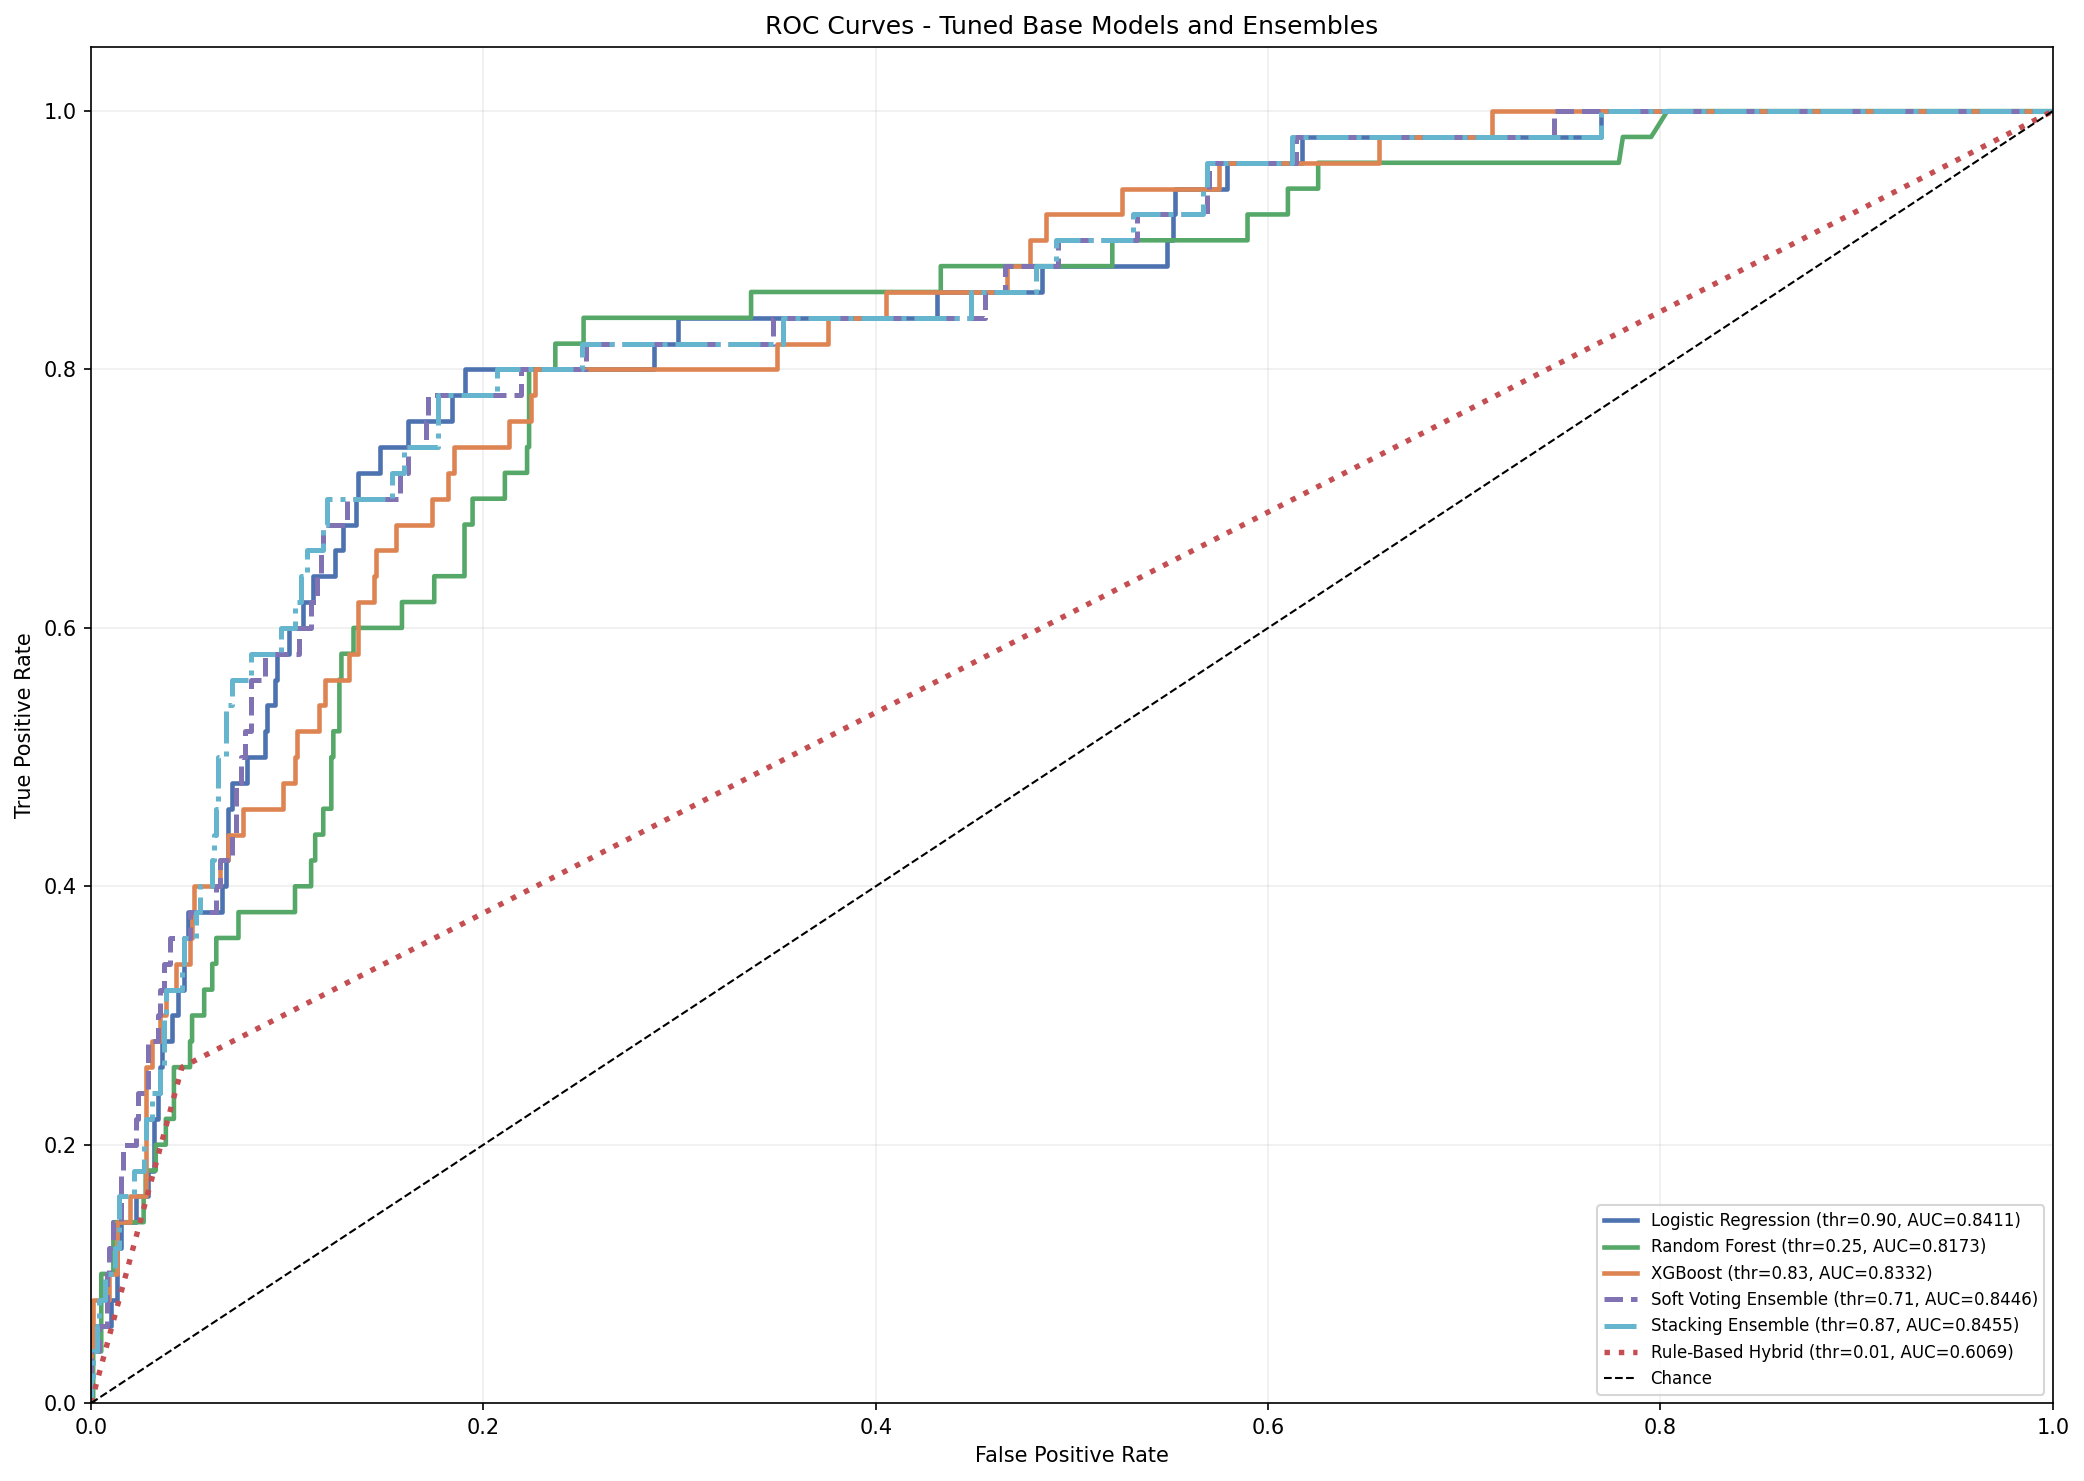
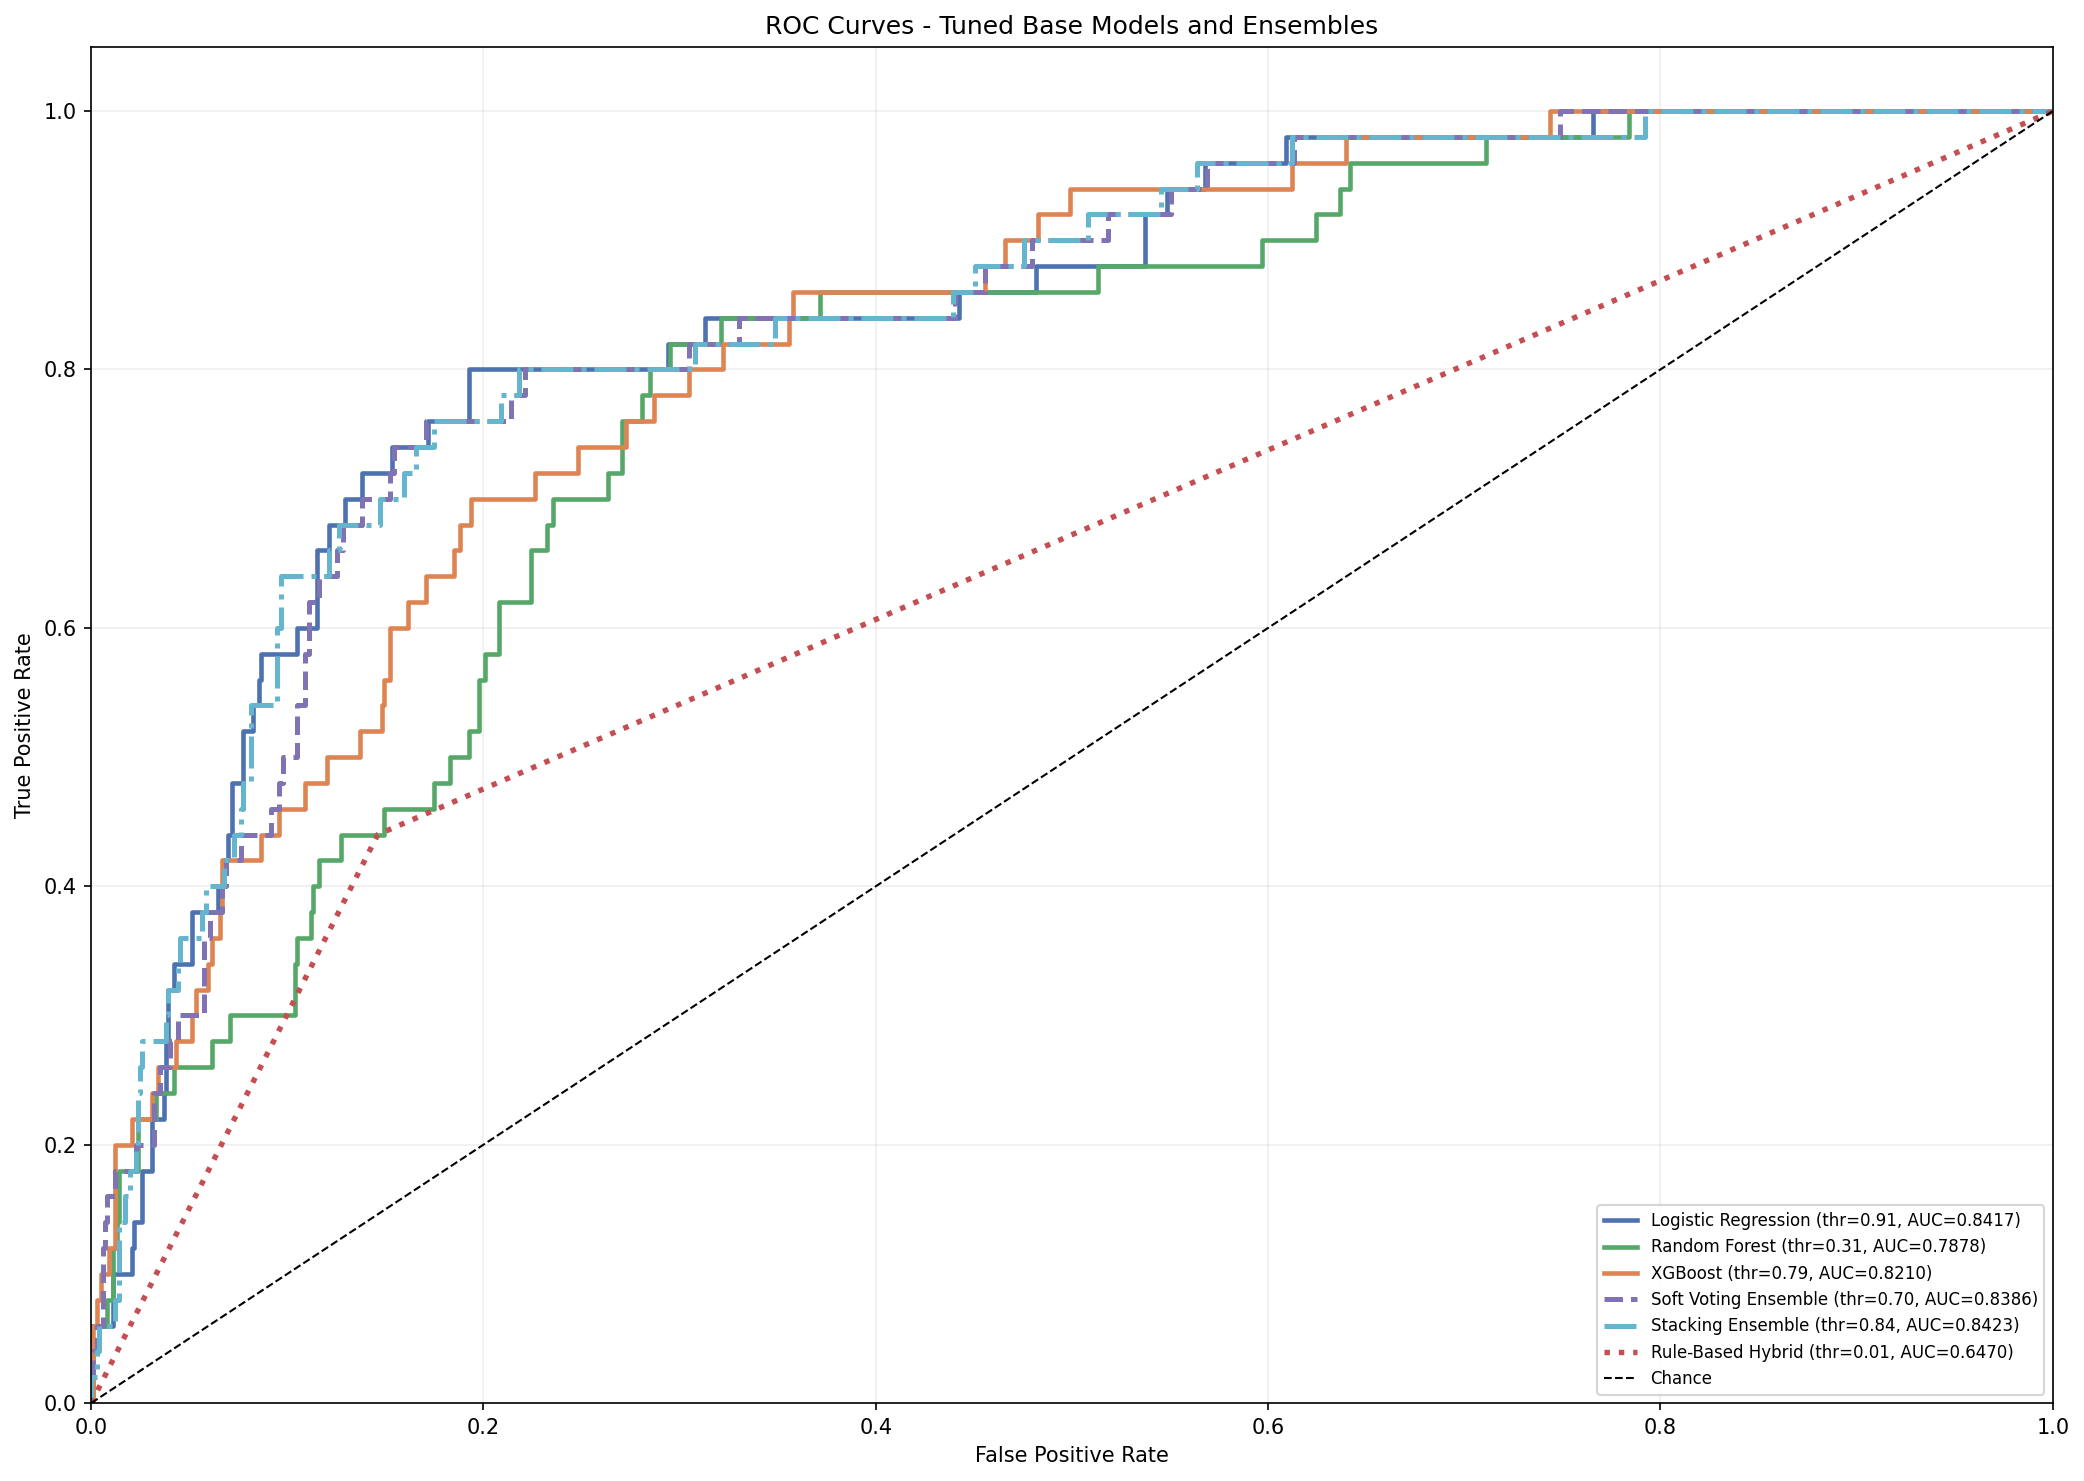
did smote and tuned the model

diff --git a/model_comparison_tuned.py b/model_comparison_tuned.py
@@ -7,6 +7,7 @@ import matplotlib.pyplot as plt
 import numpy as np
 import pandas as pd
 
+from sklearn.base import BaseEstimator, ClassifierMixin, clone
 from sklearn.ensemble import RandomForestClassifier
 from sklearn.linear_model import LogisticRegression
 from sklearn.metrics import (
@@ -19,6 +20,7 @@ from sklearn.metrics import (
     roc_auc_score,
     roc_curve,
 )
+from sklearn.neighbors import NearestNeighbors
 from sklearn.model_selection import StratifiedKFold, train_test_split
 from sklearn.pipeline import Pipeline
 
@@ -42,6 +44,8 @@ from model_comparison import (
 THRESHOLD_GRID = np.round(np.arange(0.0, 1.01, 0.01), 2)
 MIN_PRECISION_FOR_RECALL_OPTIMIZATION = 0.20
 THRESHOLD_SELECTION_STRATEGY = "recall_at_precision_floor"
+SMOTE_SAMPLING_STRATEGY = 0.30
+SMOTE_K_NEIGHBORS = 5
 
 OUTPUT_PLOT_PATH = Path(__file__).with_name("model_comparison_tuned_results.png")
 THRESHOLD_TUNING_PLOT_PATH = Path(__file__).with_name("threshold_tuning_results.png")
@@ -56,18 +60,140 @@ MODEL_ORDER = [
 ]
 
 
+class SimpleSMOTE:
+    """A lightweight SMOTE implementation for dense tabular matrices."""
+
+    def __init__(
+        self,
+        sampling_strategy: float = SMOTE_SAMPLING_STRATEGY,
+        random_state: int = RANDOM_STATE,
+        k_neighbors: int = SMOTE_K_NEIGHBORS,
+    ) -> None:
+        self.sampling_strategy = sampling_strategy
+        self.random_state = random_state
+        self.k_neighbors = k_neighbors
+
+    def fit_resample(self, X: np.ndarray, y: pd.Series | np.ndarray) -> tuple[np.ndarray, np.ndarray]:
+        X_array = np.asarray(X, dtype=float)
+        y_array = np.asarray(y, dtype=int)
+
+        classes, counts = np.unique(y_array, return_counts=True)
+        if len(classes) != 2:
+            return X_array, y_array
+
+        minority_class = classes[np.argmin(counts)]
+        majority_class = classes[np.argmax(counts)]
+        minority_mask = y_array == minority_class
+        majority_mask = y_array == majority_class
+
+        X_minority = X_array[minority_mask]
+        X_majority = X_array[majority_mask]
+        y_minority = y_array[minority_mask]
+        y_majority = y_array[majority_mask]
+
+        target_minority_count = int(np.ceil(self.sampling_strategy * len(X_majority)))
+        if target_minority_count <= len(X_minority) or len(X_minority) < 2:
+            return X_array, y_array
+
+        n_samples_to_generate = target_minority_count - len(X_minority)
+        effective_k = min(self.k_neighbors, len(X_minority) - 1)
+        if effective_k < 1:
+            return X_array, y_array
+
+        nn = NearestNeighbors(n_neighbors=effective_k + 1)
+        nn.fit(X_minority)
+        neighbor_indices = nn.kneighbors(X_minority, return_distance=False)[:, 1:]
+
+        rng = np.random.default_rng(self.random_state)
+        synthetic_samples = []
+
+        for _ in range(n_samples_to_generate):
+            sample_index = rng.integers(0, len(X_minority))
+            sample = X_minority[sample_index]
+            neighbor_index = rng.choice(neighbor_indices[sample_index])
+            neighbor = X_minority[neighbor_index]
+            gap = rng.random()
+            synthetic_samples.append(sample + gap * (neighbor - sample))
+
+        X_synthetic = np.asarray(synthetic_samples, dtype=float)
+        y_synthetic = np.full(len(X_synthetic), minority_class, dtype=int)
+
+        X_resampled = np.vstack([X_majority, X_minority, X_synthetic])
+        y_resampled = np.concatenate([y_majority, y_minority, y_synthetic])
+
+        return X_resampled, y_resampled
+
+
+class SmoteTabularClassifier(BaseEstimator, ClassifierMixin):
+    """Wrap feature engineering, preprocessing, SMOTE, and a classifier in one estimator."""
+
+    def __init__(
+        self,
+        numerical_features: list[str],
+        categorical_features: list[str],
+        classifier: object,
+        use_scaler: bool,
+        sampling_strategy: float = SMOTE_SAMPLING_STRATEGY,
+        random_state: int = RANDOM_STATE,
+        k_neighbors: int = SMOTE_K_NEIGHBORS,
+    ) -> None:
+        self.numerical_features = numerical_features
+        self.categorical_features = categorical_features
+        self.classifier = classifier
+        self.use_scaler = use_scaler
+        self.sampling_strategy = sampling_strategy
+        self.random_state = random_state
+        self.k_neighbors = k_neighbors
+
+    def _engineered_numerical_features(self) -> list[str]:
+        engineered_numerical_features = self.numerical_features.copy()
+        if {"age", "has_hypertension"}.issubset(self.numerical_features):
+            engineered_numerical_features.append("age_x_has_hypertension")
+        if {"bmi_value", "glucose_level"}.issubset(self.numerical_features):
+            engineered_numerical_features.append("bmi_x_glucose_level")
+        return engineered_numerical_features
+
+    def fit(self, X: pd.DataFrame, y: pd.Series) -> "SmoteTabularClassifier":
+        self.feature_engineering_ = InteractionFeatureAdder()
+        engineered_numerical_features = self._engineered_numerical_features()
+        self.preprocessor_ = build_preprocessor(
+            engineered_numerical_features,
+            self.categorical_features,
+            use_scaler=self.use_scaler,
+        )
+        self.smote_ = SimpleSMOTE(
+            sampling_strategy=self.sampling_strategy,
+            random_state=self.random_state,
+            k_neighbors=self.k_neighbors,
+        )
+
+        X_engineered = self.feature_engineering_.fit_transform(X, y)
+        X_processed = self.preprocessor_.fit_transform(X_engineered, y)
+        X_resampled, y_resampled = self.smote_.fit_resample(X_processed, y)
+
+        self.classifier_ = clone(self.classifier)
+        self.classifier_.fit(X_resampled, y_resampled)
+        self.classes_ = np.array(sorted(np.unique(y_resampled)))
+        return self
+
+    def predict_proba(self, X: pd.DataFrame) -> np.ndarray:
+        X_engineered = self.feature_engineering_.transform(X)
+        X_processed = self.preprocessor_.transform(X_engineered)
+        return self.classifier_.predict_proba(X_processed)
+
+    def predict(self, X: pd.DataFrame) -> np.ndarray:
+        """Provide a hard-label prediction for sklearn utilities like cross_val_predict."""
+
+        proba = self.predict_proba(X)[:, 1]
+        return (proba >= 0.5).astype(int)
+
+
 def build_weighted_models(
     numerical_features: list[str],
     categorical_features: list[str],
     y_train: pd.Series,
-) -> dict[str, Pipeline]:
-    """Build class-weighted base models using the current training split."""
-
-    engineered_numerical_features = numerical_features.copy()
-    if {"age", "has_hypertension"}.issubset(numerical_features):
-        engineered_numerical_features.append("age_x_has_hypertension")
-    if {"bmi_value", "glucose_level"}.issubset(numerical_features):
-        engineered_numerical_features.append("bmi_x_glucose_level")
+) -> dict[str, SmoteTabularClassifier]:
+    """Build class-weighted models with SMOTE applied only inside training folds."""
 
     num_positive = float((y_train == 1).sum())
     num_negative = float((y_train == 0).sum())
@@ -76,81 +202,69 @@ def build_weighted_models(
     if not np.isfinite(scale_pos_weight) or scale_pos_weight <= 0:
         scale_pos_weight = DEFAULT_SCALE_POS_WEIGHT
 
-    logistic_pipeline = Pipeline(
-        steps=[
-            ("feature_engineering", InteractionFeatureAdder()),
-            (
-                "preprocessor",
-                build_preprocessor(engineered_numerical_features, categorical_features, use_scaler=True),
-            ),
-            (
-                "classifier",
-                LogisticRegression(
-                    max_iter=2000,
-                    random_state=RANDOM_STATE,
-                    solver="lbfgs",
-                    class_weight="balanced",
-                ),
-            ),
-        ]
+    logistic_model = SmoteTabularClassifier(
+        numerical_features=numerical_features,
+        categorical_features=categorical_features,
+        classifier=LogisticRegression(
+            max_iter=2000,
+            random_state=RANDOM_STATE,
+            solver="lbfgs",
+            class_weight="balanced",
+        ),
+        use_scaler=True,
+        sampling_strategy=SMOTE_SAMPLING_STRATEGY,
+        random_state=RANDOM_STATE,
+        k_neighbors=SMOTE_K_NEIGHBORS,
     )
 
-    random_forest_pipeline = Pipeline(
-        steps=[
-            ("feature_engineering", InteractionFeatureAdder()),
-            (
-                "preprocessor",
-                build_preprocessor(engineered_numerical_features, categorical_features, use_scaler=False),
-            ),
-            (
-                "classifier",
-                RandomForestClassifier(
-                    n_estimators=300,
-                    max_depth=None,
-                    min_samples_split=5,
-                    min_samples_leaf=2,
-                    max_features="sqrt",
-                    random_state=RANDOM_STATE,
-                    n_jobs=-1,
-                    class_weight="balanced",
-                ),
-            ),
-        ]
+    random_forest_model = SmoteTabularClassifier(
+        numerical_features=numerical_features,
+        categorical_features=categorical_features,
+        classifier=RandomForestClassifier(
+            n_estimators=300,
+            max_depth=None,
+            min_samples_split=5,
+            min_samples_leaf=2,
+            max_features="sqrt",
+            random_state=RANDOM_STATE,
+            n_jobs=-1,
+            class_weight="balanced",
+        ),
+        use_scaler=False,
+        sampling_strategy=SMOTE_SAMPLING_STRATEGY,
+        random_state=RANDOM_STATE,
+        k_neighbors=SMOTE_K_NEIGHBORS,
     )
 
-    xgboost_pipeline = Pipeline(
-        steps=[
-            ("feature_engineering", InteractionFeatureAdder()),
-            (
-                "preprocessor",
-                build_preprocessor(engineered_numerical_features, categorical_features, use_scaler=False),
-            ),
-            (
-                "classifier",
-                XGBClassifier(
-                    n_estimators=300,
-                    max_depth=3,
-                    learning_rate=0.05,
-                    subsample=0.8,
-                    colsample_bytree=0.8,
-                    min_child_weight=8,
-                    gamma=0.1,
-                    reg_alpha=0.1,
-                    reg_lambda=1.0,
-                    scale_pos_weight=scale_pos_weight,
-                    objective="binary:logistic",
-                    eval_metric="logloss",
-                    random_state=RANDOM_STATE,
-                    n_jobs=-1,
-                ),
-            ),
-        ]
+    xgboost_model = SmoteTabularClassifier(
+        numerical_features=numerical_features,
+        categorical_features=categorical_features,
+        classifier=XGBClassifier(
+            n_estimators=300,
+            max_depth=3,
+            learning_rate=0.05,
+            subsample=0.8,
+            colsample_bytree=0.8,
+            min_child_weight=8,
+            gamma=0.1,
+            reg_alpha=0.1,
+            reg_lambda=1.0,
+            scale_pos_weight=scale_pos_weight,
+            objective="binary:logistic",
+            eval_metric="logloss",
+            random_state=RANDOM_STATE,
+            n_jobs=-1,
+        ),
+        use_scaler=False,
+        sampling_strategy=SMOTE_SAMPLING_STRATEGY,
+        random_state=RANDOM_STATE,
+        k_neighbors=SMOTE_K_NEIGHBORS,
     )
 
     return {
-        "Logistic Regression": logistic_pipeline,
-        "Random Forest": random_forest_pipeline,
-        "XGBoost": xgboost_pipeline,
+        "Logistic Regression": logistic_model,
+        "Random Forest": random_forest_model,
+        "XGBoost": xgboost_model,
     }
 
 